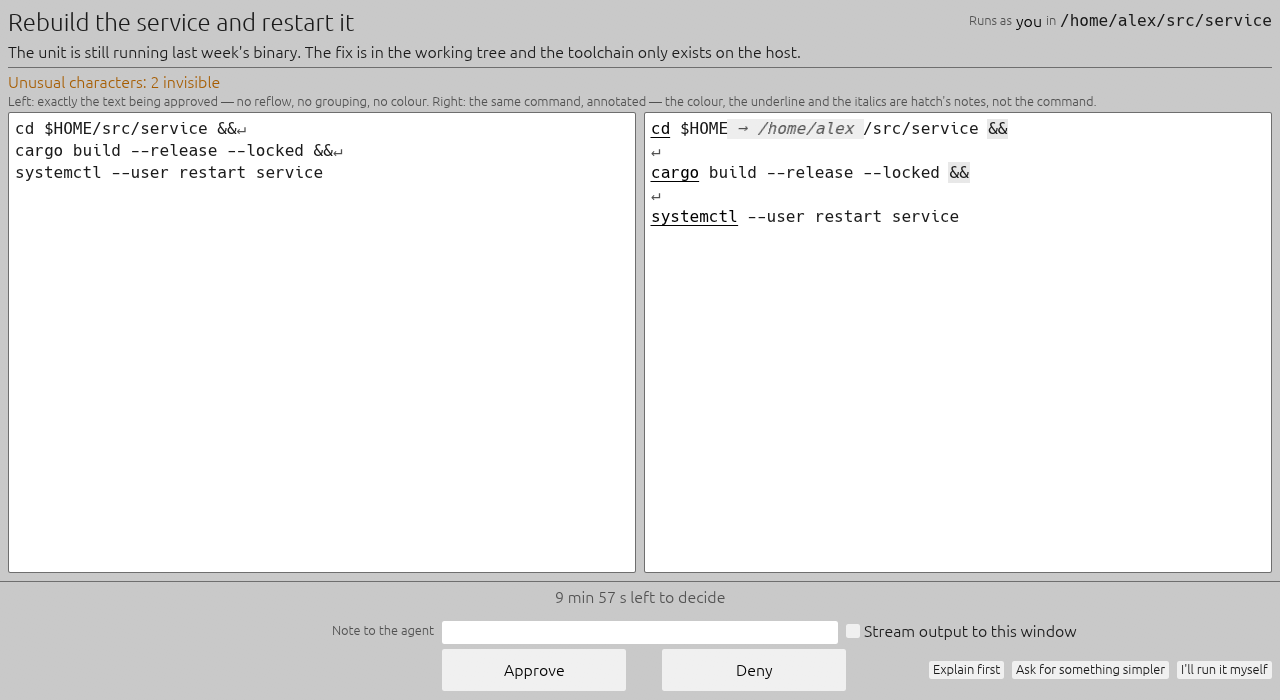
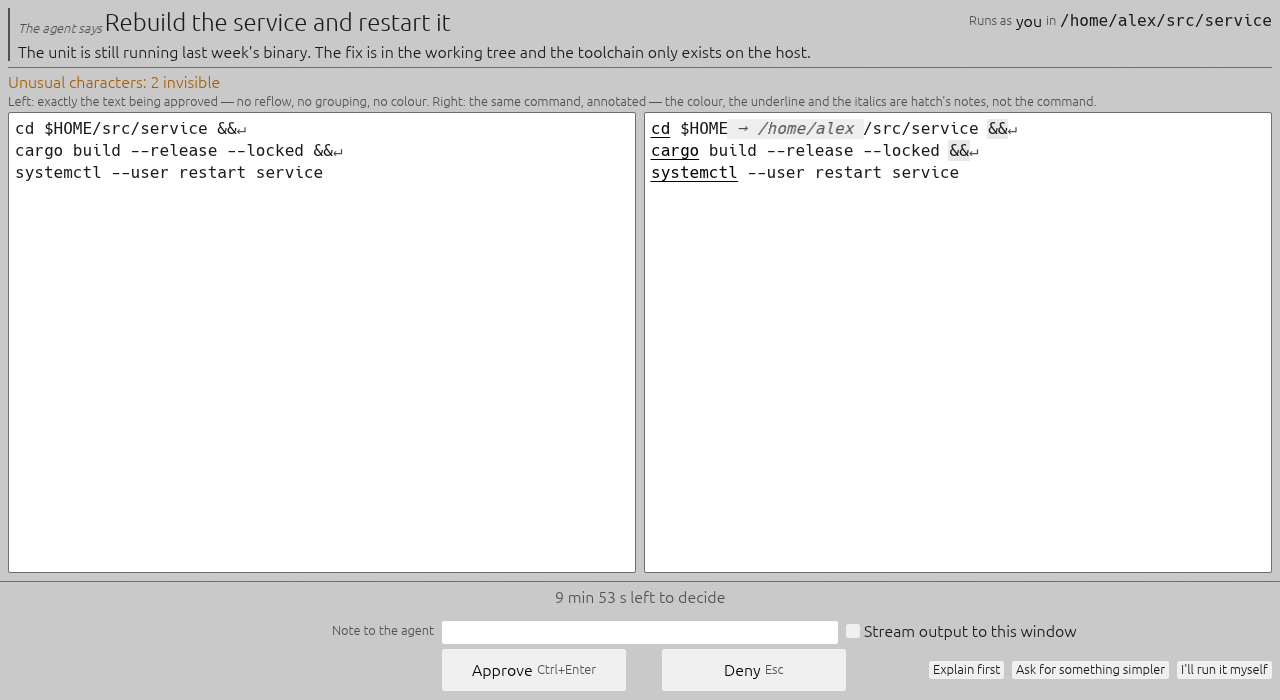
docs: the lead images are the window as it is now
Recaptured from the real `hatch prompt` drawing the same payload as before, so
the two can be read against each other: the same build-and-restart, the same
resolved `$HOME`, the same countdown. Three things moved in them — the header
is marked as the agent's words, the buttons carry the keys that do the same
thing, and the `↵` that used to sit alone on a line after each `&&` now ends
the line it belongs to. Dark and light both, since the page shows both.

diff --git a/README.md b/README.md
@@ -18,12 +18,15 @@ them a three-line shell command appears twice, raw on the left and annotated on
 the right, with a countdown, a note field and Approve, Deny and three narrower
 buttons along the bottom.](media/approval-command.png)
 
-*One request, waiting. The left pane is exactly the text being approved — no
-reflow, no colour. The right is the same text annotated: numbered segments,
-`$HOME` shown with the value the command will actually receive, the `&&` that
-ends each segment still on screen, and each line break drawn as a quiet `↵`
-rather than silently swallowed. The header counts what it found and the
-countdown says how long is left before the window denies on its own.*
+*One request, waiting. The header is the agent's own words, marked as such: a
+rule down the side and "The agent says" in front of them. The left pane is
+exactly the text being approved — no reflow, no colour. The right is the same
+text annotated: numbered segments, `$HOME` shown with the value the command
+will actually receive, the `&&` that ends each segment still on screen with the
+line break it is followed by drawn as a quiet `↵` rather than silently
+swallowed. The header counts what it found, the countdown says how long is left
+before the window denies on its own, and the buttons name the keys that do the
+same thing.*
 
 ---
 
